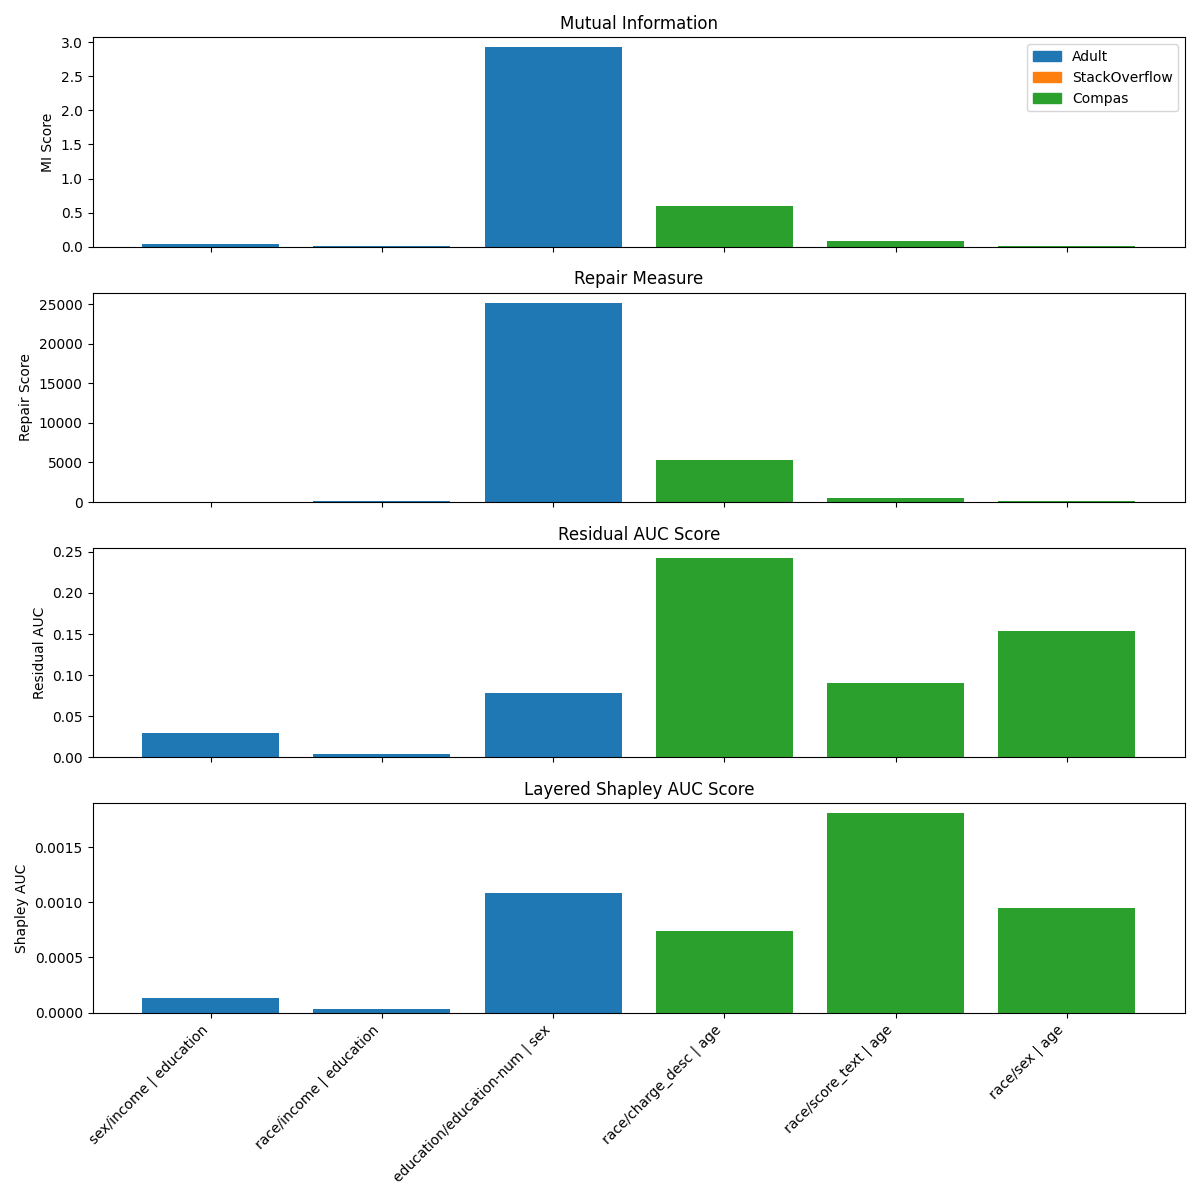
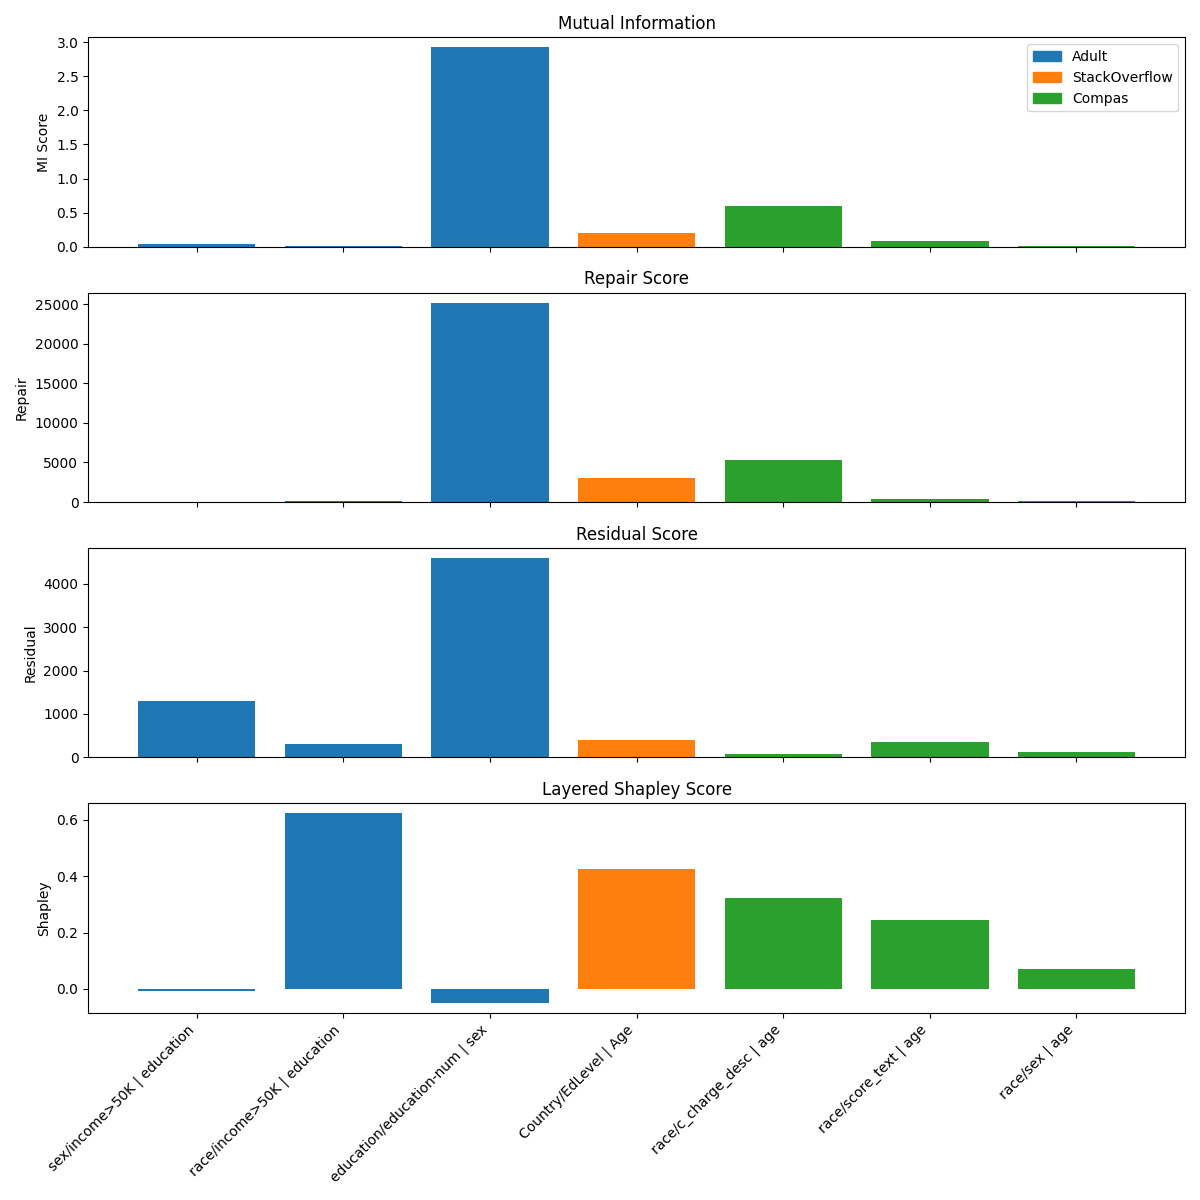
Added plotting

diff --git a/main.py b/main.py
@@ -351,96 +351,149 @@ def plot_anomalous_treatment_count_pmi_repair():
     plt.show()
 
 
-def plot_layered_shapley_values():
-    labels = [
-        "sex/income | education", "race/income | education", "education/education-num | sex",
-        "Country/EdLevel | Age", "Country/DevType | Age", "Country/SurveyLength | Age", "Country/SOVisitFreq | Age",
-        "race/charge_desc | age", "race/score_text | age", "race/sex | age"
+def plot_proxies_comparison():
+    # --- config ---------------------------------------------------
+    DATASETS = [
+        {"name": "Adult", "path": "data/adult.csv", "attrs": [
+            ("sex", "income>50K", "education"),
+            ("race", "income>50K", "education"),
+            ("education", "education-num", "sex"),
+        ]},
+        {"name": "StackOverflow", "path": "data/stackoverflow.csv", "attrs": [
+            ("Country", "EdLevel", "Age"),
+            ("Country", "DevType", "Age"),
+            ("Country", "SurveyLength", "Age"),
+            ("Country", "SOVisitFreq", "Age"),
+        ]},
+        {"name": "COMPAS", "path": "data/compas.csv", "attrs": [
+            ("race", "c_charge_desc", "age"),
+            ("race", "score_text", "age"),
+            ("race", "sex", "age"),
+        ]},
     ]
 
-    # Define attribute triplets
-    adult_attributes = [
-        ("sex", "income>50K", "education"),
-        ("race", "income>50K", "education"),
-        ("education", "education-num", "sex")
-    ]
-    stackoverflow_attributes = [
-        ("Country", "EdLevel", "Age"),
-        ("Country", "DevType", "Age")
-    ]
-    compas_attributes = [
-        ("race", "c_charge_desc", "age"),
-        ("race", "score_text", "age"),
-        ("race", "sex", "age")
+    # Row order: MI, PrivBayes Original, PrivBayes with offset, TVD
+    PROXIES = [
+        ("Mutual\nInformation", "MI"),
+        ("PrivBayes Proxy", "PRIV_ORIG"),
+        ("PrivBayes Proxy\nwith offset", "PRIV_OFFSET"),
+        ("TVD Proxy", "TVD"),
     ]
 
-    all_attributes = adult_attributes + stackoverflow_attributes + compas_attributes
-    all_paths = (["data/adult.csv"] * len(adult_attributes) +
-                 ["data/stackoverflow.csv"] * len(stackoverflow_attributes) +
-                 ["data/compas.csv"] * len(compas_attributes))
-
-    # Prepare result containers
-    mutual_information_scores = []
-    repair_scores = []
-    residual_scores = []
-    layered_shapley_scores = []
-
-    # Compute metric values
-    for (s_col, o_col, a_col), path in zip(all_attributes, all_paths):
-        mutual_information = MutualInformation(datapath=path).calculate(s_col, o_col, a_col)
-        repair_score = ProxyRepairMaxSat(datapath=path).calculate(s_col, o_col, a_col)
-        residual_score = ResidualAUCMeasure(datapath=path).calculate(s_col, o_col, a_col, plot=True)
-        shapley_score = LayeredShapleyValues(datapath=path).calculate(s_col, o_col, a_col, plot=True)
-
-        mutual_information_scores.append(mutual_information)
-        repair_scores.append(repair_score)
-        residual_scores.append(residual_score)
-        layered_shapley_scores.append(shapley_score)
-
-    # Define dataset colors
-    dataset_colors = {
-        "data/adult.csv": "#1f77b4",         # blue
-        "data/stackoverflow.csv": "#ff7f0e", # orange
-        "data/compas.csv": "#2ca02c"         # green
+    PROXY_COLOR = {
+        "MI": "#1f77b4",
+        "PRIV_ORIG": "#ff7f0e",
+        "PRIV_OFFSET": "#9467bd",
+        "TVD": "#2ca02c",
     }
-    colors = [dataset_colors[path] for path in all_paths]
 
-    # Plotting (now 4 rows)
-    fig, axes = plt.subplots(4, 1, figsize=(12, 12), sharex=True)
+    import textwrap
 
-    # MI subplot
-    axes[0].bar(labels, mutual_information_scores, color=colors)
-    axes[0].set_title("Mutual Information")
-    axes[0].set_ylabel("MI Score")
+    # Bigger fonts everywhere
+    TITLE_FS = 26  # column titles
+    ROWLAB_FS = 26  # row (y-axis) labels
+    TICK_FS = 24  # tick labels (bottom axis + y-ticks)
+    ANNOT_FS = 18  # numbers above bars
 
-    # Repair subplot
-    axes[1].bar(labels, repair_scores, color=colors)
-    axes[1].set_title("Repair Score")
-    axes[1].set_ylabel("Repair")
+    # --- compute values
+    vals = {k: {} for _, k in PROXIES}
+    for ds in DATASETS:
+        ds_name, path, attrs = ds["name"], ds["path"], ds["attrs"]
+        mi_scores, priv_scores_orig, priv_scores_offset, tvd_scores = [], [], [], []
+        for s_col, o_col, a_col in attrs:
+            mi_scores.append(MutualInformation(datapath=path).calculate(s_col, o_col, a_col))
+            priv_scores_orig.append(ProxyMutualInformationPrivbayes(datapath=path).calculate(
+                s_col, o_col, a_col, add_offset=False))
+            priv_scores_offset.append(ProxyMutualInformationPrivbayes(datapath=path).calculate(
+                s_col, o_col, a_col, add_offset=True))
+            tvd_scores.append(ProxyMutualInformationTVD(datapath=path).calculate(s_col, o_col, a_col))
+        vals["MI"][ds_name] = mi_scores
+        vals["PRIV_ORIG"][ds_name] = priv_scores_orig
+        vals["PRIV_OFFSET"][ds_name] = priv_scores_offset
+        vals["TVD"][ds_name] = tvd_scores
 
-    # Residual subplot
-    axes[2].bar(labels, residual_scores, color=colors)
-    axes[2].set_title("Residual Score")
-    axes[2].set_ylabel("Residual")
+    # labels per dataset
+    ds_labels = {ds["name"]: [f"{s},{o} | {a}" for (s, o, a) in ds["attrs"]] for ds in DATASETS}
 
-    # Layered Shapley subplot
-    axes[3].bar(labels, layered_shapley_scores, color=colors)
-    axes[3].set_title("Layered Shapley Score")
-    axes[3].set_ylabel("Shapley")
-    axes[3].set_xticks(np.arange(len(labels)))
-    axes[3].set_xticklabels(labels, rotation=45, ha='right')
+    # --- figure
+    n_rows, n_cols = len(PROXIES), len(DATASETS)
+    fig, axes = plt.subplots(n_rows, n_cols, figsize=(20, 14), constrained_layout=True)
 
-    # Legend (shared)
-    legend_labels = {
-        "data/adult.csv": "Adult",
-        "data/stackoverflow.csv": "StackOverflow",
-        "data/compas.csv": "Compas"
-    }
-    handles = [plt.Rectangle((0, 0), 1, 1, color=dataset_colors[k]) for k in dataset_colors]
-    axes[0].legend(handles, legend_labels.values(), loc="upper right")
+    if n_rows == 1:
+        axes = np.array([axes])
+    if n_cols == 1:
+        axes = axes.reshape(n_rows, 1)
 
-    plt.tight_layout()
-    plt.savefig("plots/plot_layered_shapley_values_comparison_with_repair.png")
+    def annotate_bar(ax, rect):
+        h = rect.get_height()
+        x = rect.get_x() + rect.get_width() / 2.0
+        va = 'bottom' if h >= 0 else 'top'
+        offset = 6 if h >= 0 else -8
+        ax.annotate(f"{h:.3f}", xy=(x, h), xytext=(0, offset),
+                    textcoords="offset points", ha="center", va=va, fontsize=ANNOT_FS)
+
+    # column titles
+    for c, ds in enumerate(DATASETS):
+        axes[0, c].set_title(ds["name"], fontsize=TITLE_FS)
+
+    # draw bars
+    for r, (proxy_title, proxy_key) in enumerate(PROXIES):
+        color = PROXY_COLOR[proxy_key]
+
+        # common y-range per row (allow negatives for PRIV_ORIG if any)
+        row_vals = []
+        for ds in DATASETS:
+            row_vals.extend(vals[proxy_key][ds["name"]])
+        row_vals = np.asarray(row_vals, dtype=float)
+
+
+        for c, ds in enumerate(DATASETS):
+            ax = axes[r, c]
+            y = vals[proxy_key][ds["name"]]
+            labels = ds_labels[ds["name"]]
+
+            if row_vals.size == 0:
+                row_min, row_max = -1.0, 1.0
+            else:
+                row_min, row_max = float(np.min(row_vals)), float(np.max(row_vals))
+
+            # Always add some proportional padding
+            pad = 0.05 * max(1.0, abs(row_max - row_min))  # 5% of the data range
+
+            if proxy_key in ("MI", "PRIV_OFFSET", "TVD"):
+                ymin, ymax = 0.0, row_max + pad
+            else:
+                ymin, ymax = row_min - pad, row_max + pad
+
+            ax.set_ylim(ymin, ymax)
+
+            # tighter spacing: compress positions + narrower bars
+            x = np.arange(len(y)) * 0.65
+            bars = ax.bar(x, y, color=color, width=0.5)
+            for rect in bars:
+                annotate_bar(ax, rect)
+
+            ax.set_xticks(x)
+
+            # bottom row: bigger xticklabels
+            if r == n_rows - 1:
+                ax.set_xticklabels(labels, rotation=30, ha="right", fontsize=TICK_FS)
+            else:
+                ax.set_xticklabels([])
+
+            if c == 0:
+                ax.set_ylabel(proxy_title, fontsize=ROWLAB_FS, labelpad=20)
+
+            ax.yaxis.grid(True, linestyle=":", linewidth=0.9, alpha=0.65)
+            ax.tick_params(axis='y', labelsize=TICK_FS)
+            ax.set_ylim(row_min, row_max)
+
+            # NO zero line anywhere (PrivBayes orig can be negative; limits already handle it)
+            if c == 0:
+                ax.set_ylabel(proxy_title, fontsize=ROWLAB_FS)
+
+    # No legend (colors are per-row and labeled by y-axis)
+    plt.savefig("plots/plot_proxies_4x3_no_zeroline_nolegend_bigfonts.png", dpi=220)
     plt.show()
 
 
@@ -515,4 +568,4 @@ if __name__ == "__main__":
     # plot_anomalous_treatment_count_pmi_repair()
 
     # -----------------Shapley Values------------------
-    plot_layered_shapley_values()
+    plot_proxies_comparison()

diff --git a/proxy_mutual_information_privbayes.py b/proxy_mutual_information_privbayes.py
@@ -28,7 +28,7 @@ class ProxyMutualInformationPrivbayes:
         else:
             self.dataset = data
 
-    def calculate(self, s_col, o_col, a_col=None):
+    def calculate(self, s_col, o_col, a_col=None, add_offset=True):
         """
         Calculate proxy mutual information I(S;O) or conditional mutual information I(S;O|A).
 
@@ -80,7 +80,8 @@ class ProxyMutualInformationPrivbayes:
             else:
                 mi = self._getF_multiclass_unconditional(s_col, o_col)
 
-        mi += 0.5  # non-negative adjustment
+        if add_offset:
+            mi += 0.5  # non-negative adjustment
         elapsed_time = time.time() - start_time
         print(f"Privbayes: Proxy Mutual Information between '{s_col}' and '{o_col}'"
               + (f" conditioned on '{a_col}'" if a_col else "")
